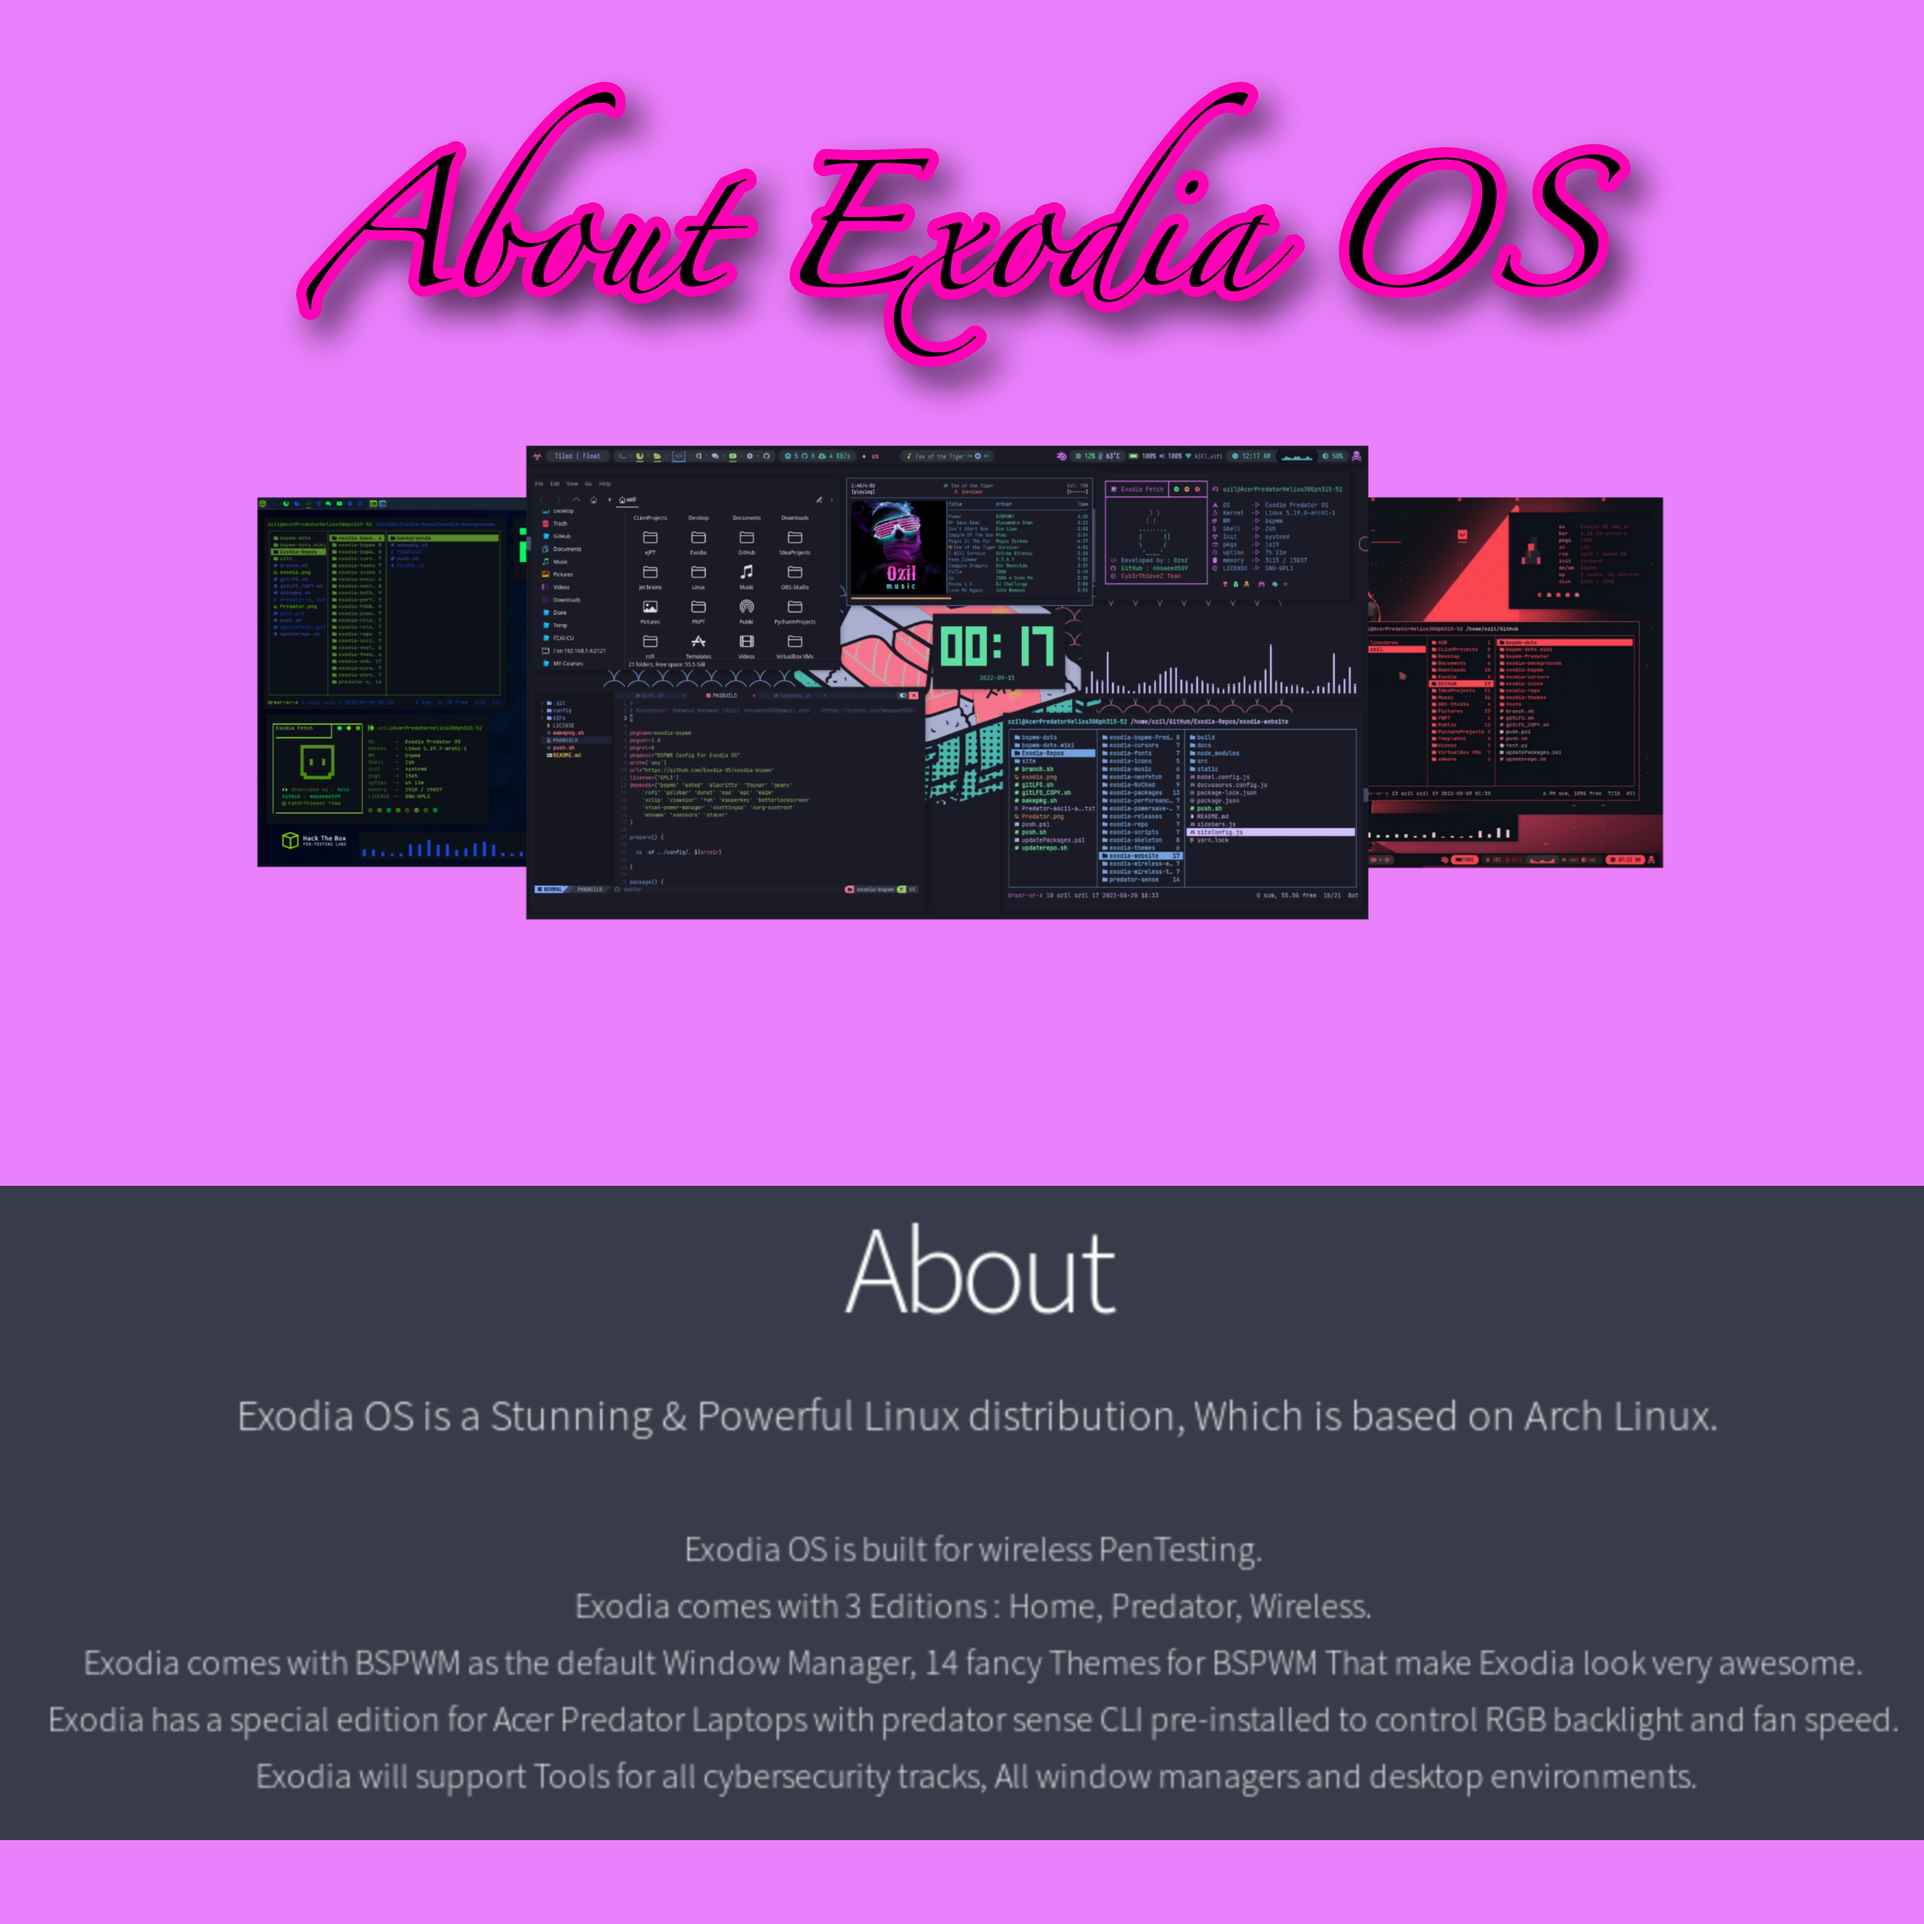
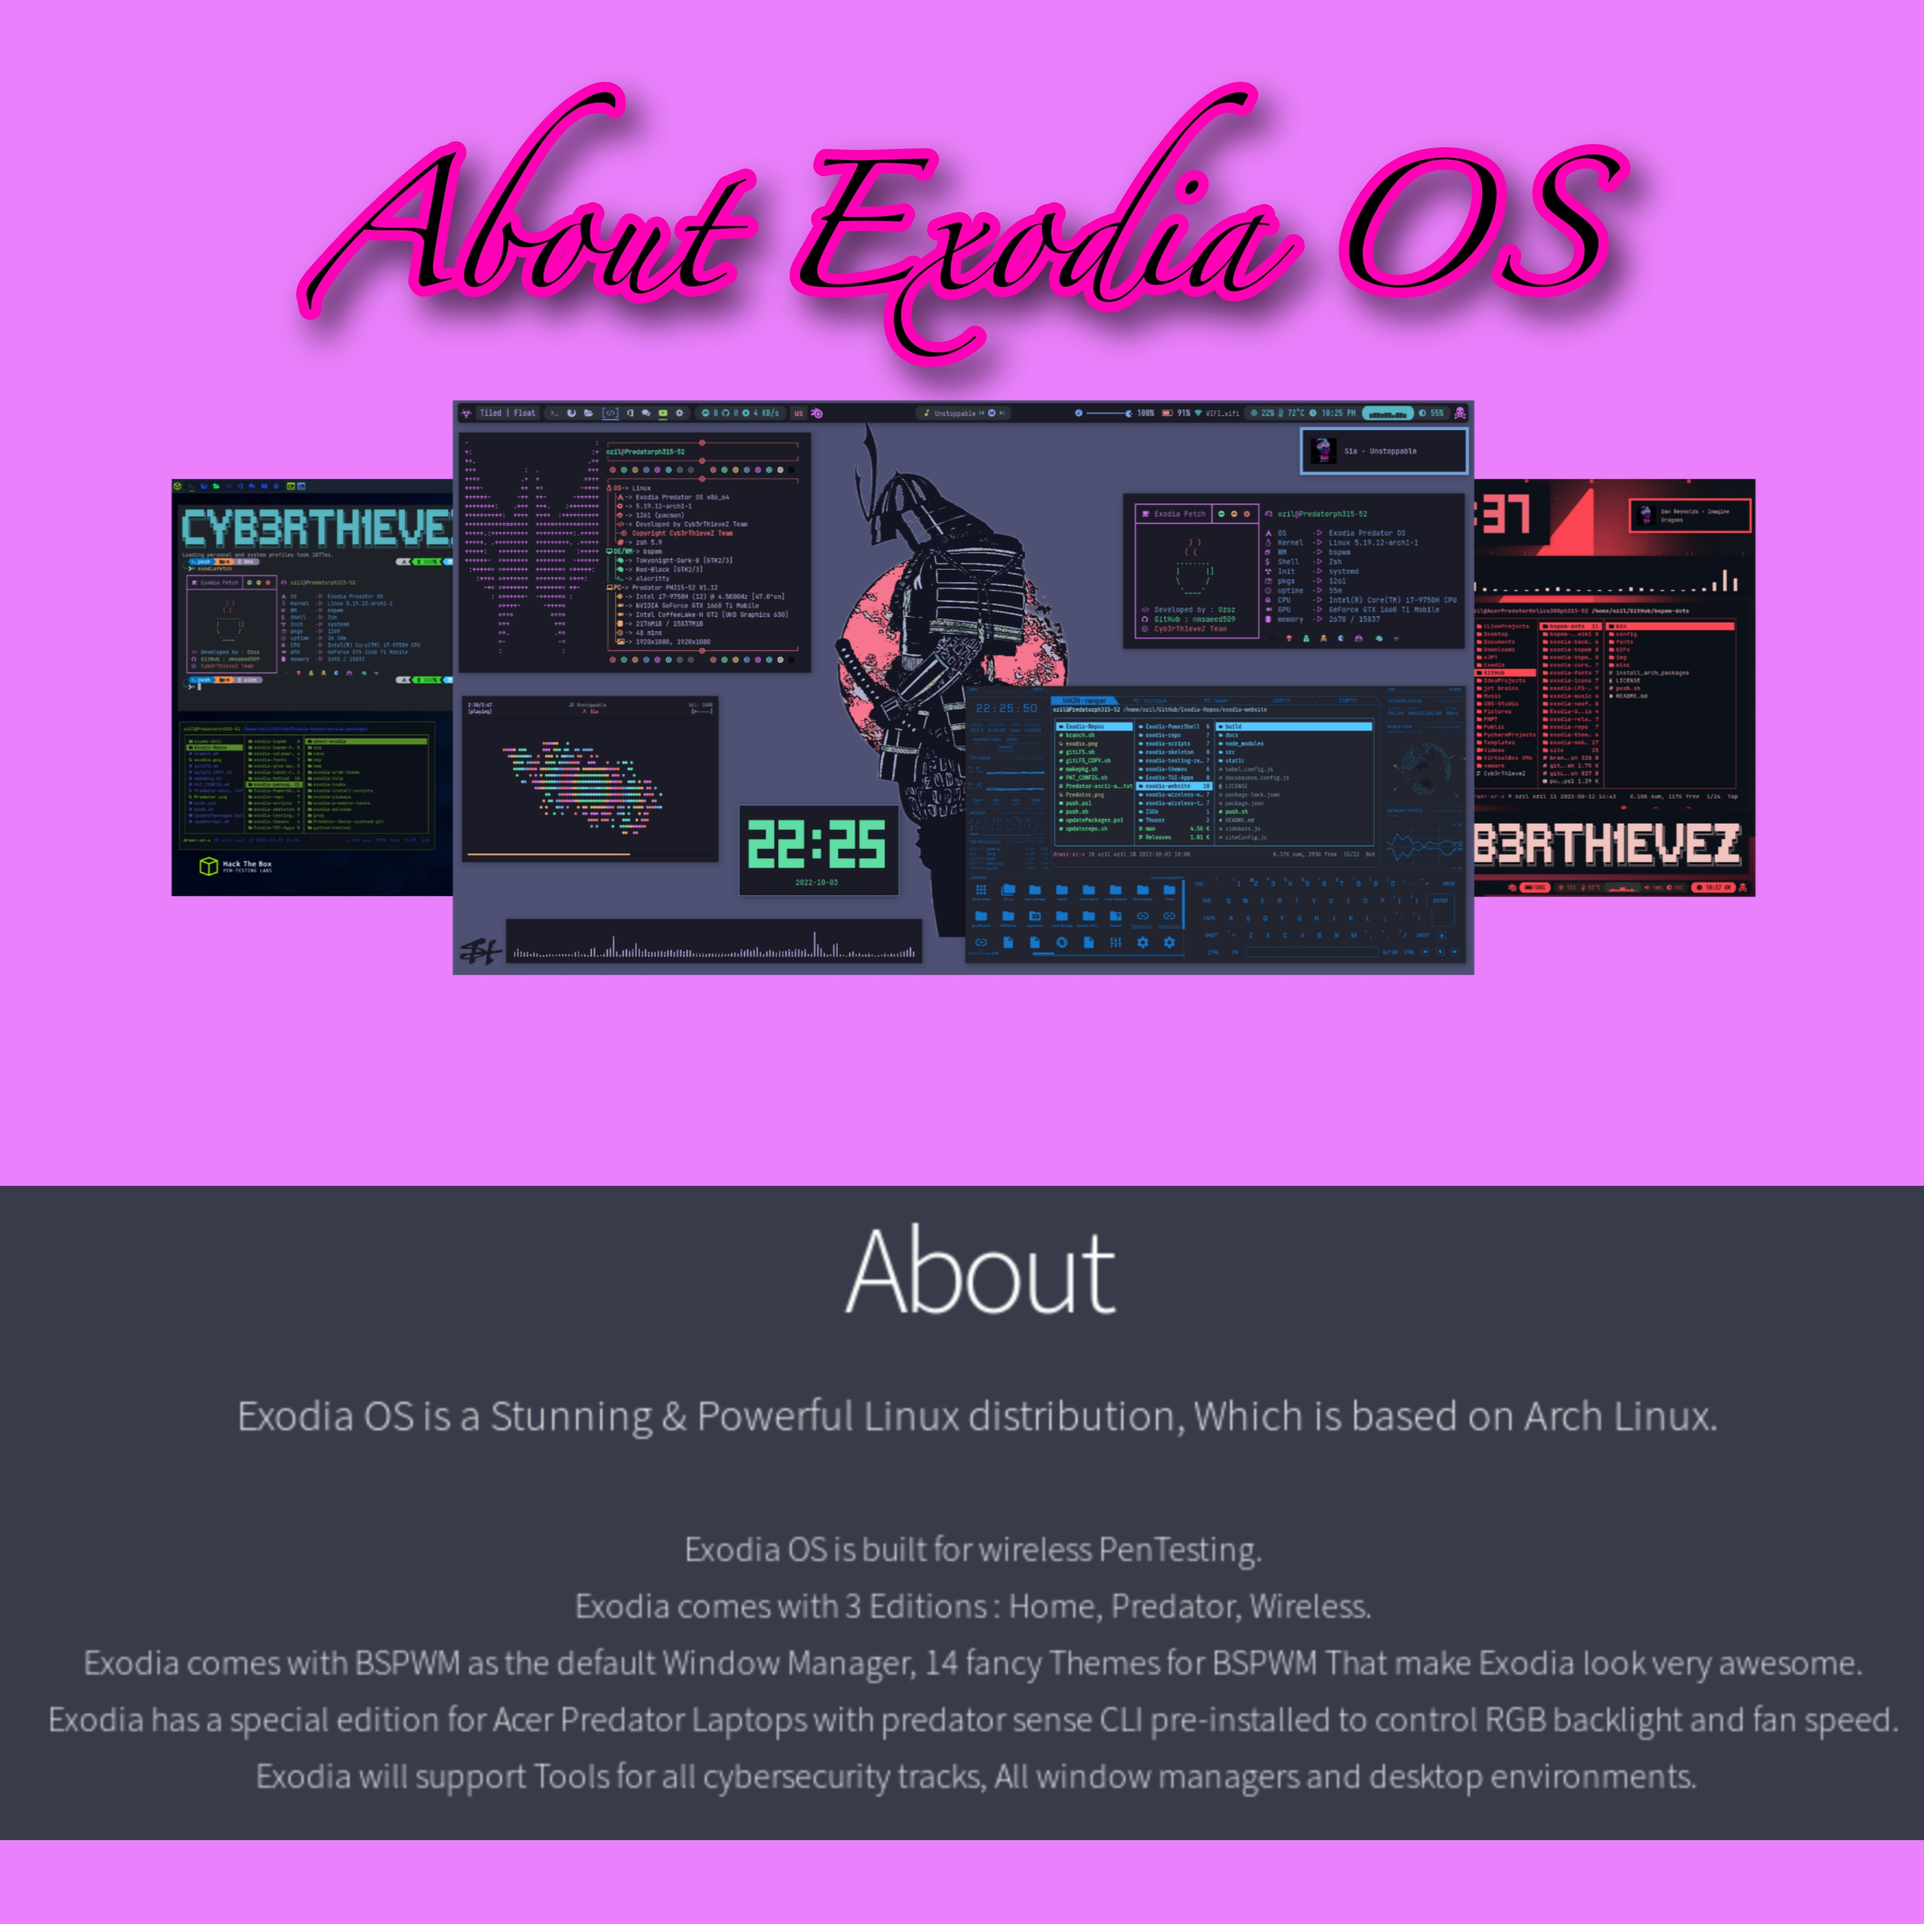
updated

Changed region(s): [[0.0624, 0.1871, 0.9353, 0.53]]

diff --git a/exodia-calamares/files/calamares/branding/exodia/show.qml b/exodia-calamares/files/calamares/branding/exodia/show.qml
@@ -33,7 +33,7 @@ Presentation
 
         Image {
             id: background1
-            source: "slides/1.png"
+            source: "slides/1.jpg"
             anchors.fill: parent
         }
     }
@@ -43,7 +43,7 @@ Presentation
 
         Image {
             id: background2
-            source: "slides/2.png"
+            source: "slides/2.jpg"
             anchors.fill: parent
         }
     }
@@ -53,7 +53,7 @@ Presentation
 
         Image {
             id: background3
-            source: "slides/3.png"
+            source: "slides/3.jpg"
             anchors.fill: parent
         }
     }
@@ -63,7 +63,7 @@ Presentation
 
         Image {
             id: background4
-            source: "slides/4.png"
+            source: "slides/4.jpg"
             anchors.fill: parent
         }
     }
@@ -73,7 +73,7 @@ Presentation
 
         Image {
             id: background5
-            source: "slides/5.png"
+            source: "slides/5.jpg"
             anchors.fill: parent
         }
     }
@@ -83,7 +83,7 @@ Presentation
 
         Image {
             id: background6
-            source: "slides/6.png"
+            source: "slides/6.jpg"
             anchors.fill: parent
         }
     }
